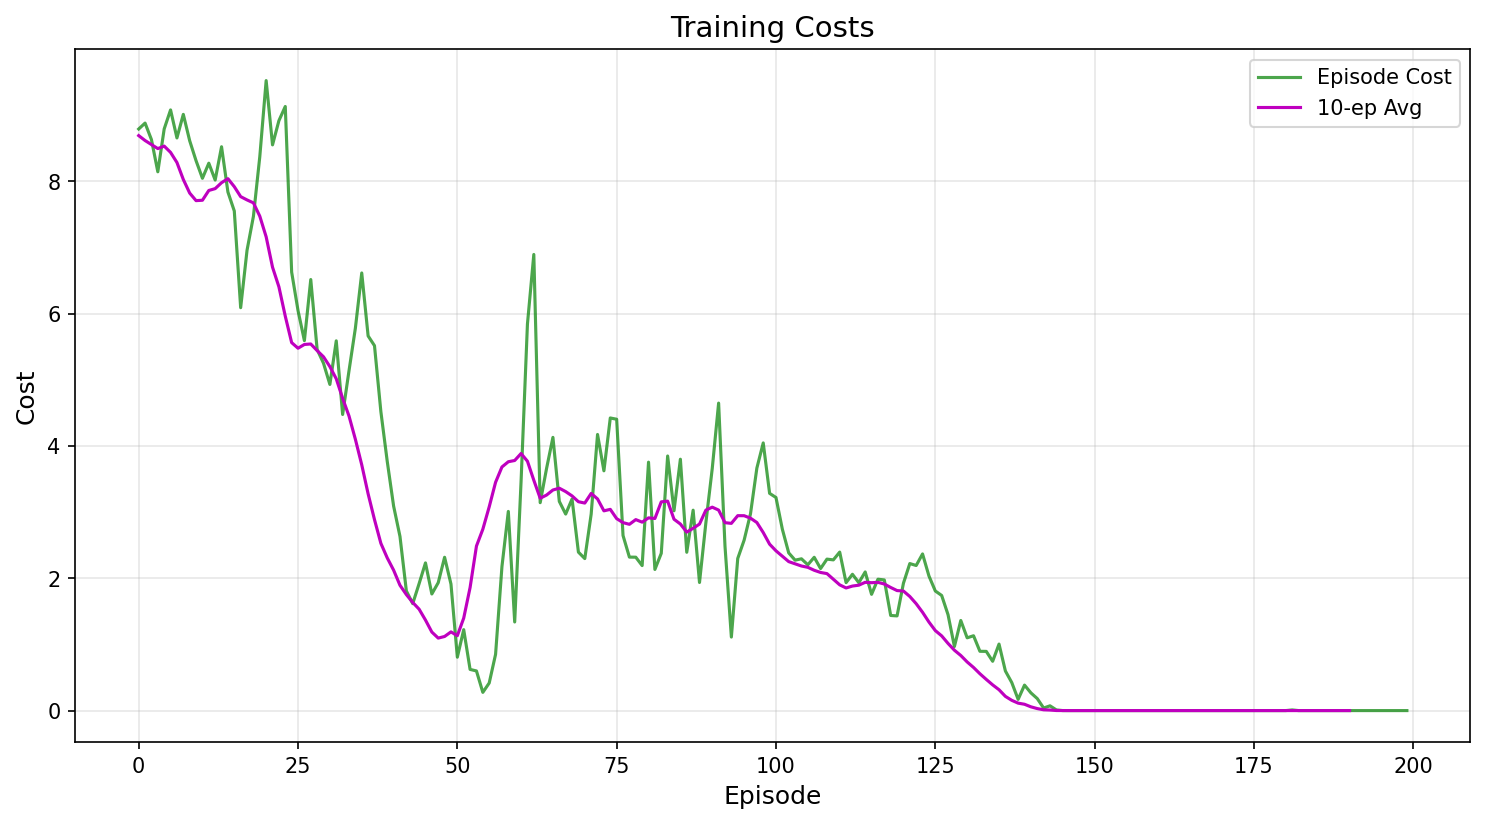
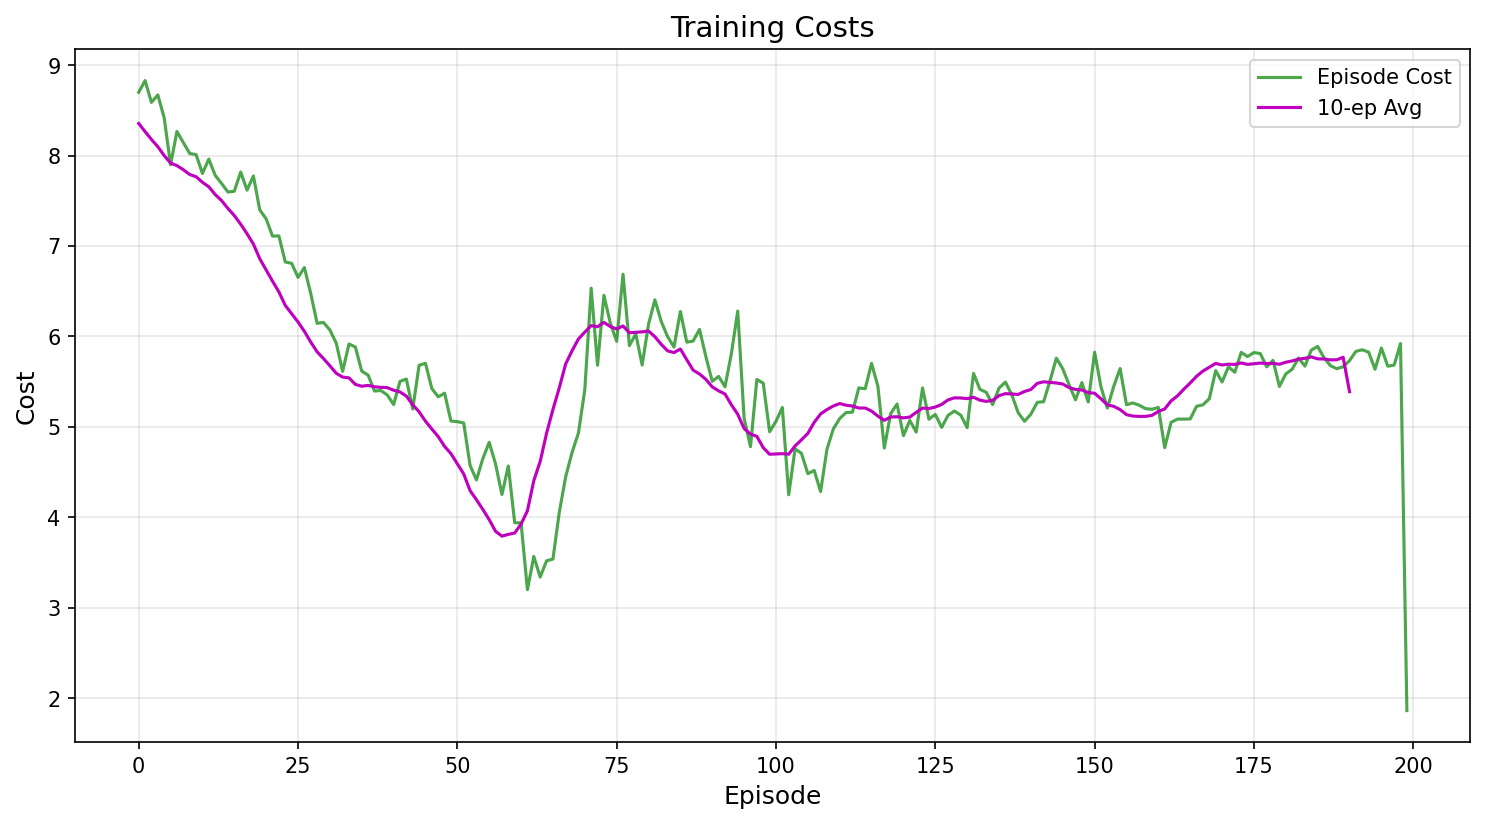
fix: Stabilize Safe RL training with hyperparameter tuning
- Reduced learning rate from 1e-4 to 5e-5 to prevent reward instability
- Increased training episodes from 200 to 500 for better convergence
- Increased cost limit from 10.0 to 15.0 to balance reward and cost
- Verified safety constraint remains enforced (cost < 15.0)
- Ensured Lambda behavior remains correct (0.00 when cost < limit)
- Fixed reward fluctuation in later episodes (Ep 100-190)

diff --git a/homeworks/HW14_Safe_RL/code/py.py b/homeworks/HW14_Safe_RL/code/py.py
@@ -13,19 +13,13 @@ import matplotlib
 matplotlib.use('Agg')
 import io
 from PIL import Image
-import gymnasium as gym  # تغییر از gym به gymnasium
+import gymnasium as gym
 
-# ======================
-# CONFIGURATION SECTION
-# ======================
 SAVE_DIR = "./results"
 os.makedirs(SAVE_DIR, exist_ok=True)
 DEVICE = torch.device("cuda" if torch.cuda.is_available() else "cpu")
 print(f"Using device: {DEVICE}")
 
-# ======================
-# CORE IMPLEMENTATIONS
-# ======================
 
 class Policy(nn.Module):
     def __init__(self, state_dim, action_dim):
@@ -190,39 +184,30 @@ class PPOLagrangian:
             "mean_cost": mean_cost,
         }
 
-# ======================
-# ENVIRONMENT SETUP
-# ======================
-# ======================
-# ENVIRONMENT SETUP
-# ======================
 class CostWrapper(gym.Wrapper):
     """Wrapper to add cost to environment info"""
     def __init__(self, env):
         super().__init__(env)
-        # Cost function: proportional to squared action (energy)
         self.cost_fn = lambda state, action: np.sum(np.square(action)) * 0.1
     
     def step(self, action):
         obs, reward, terminated, truncated, info = self.env.step(action)
         cost = self.cost_fn(obs, action)
-        info["cost"] = cost  # Add cost to info dictionary
+        info["cost"] = cost 
         return obs, reward, terminated, truncated, info
 
 def create_env():
     env = gym.make("HalfCheetah-v4", render_mode="rgb_array")
     env = CostWrapper(env)
-    # تغییر این خط: محدودیت هزینه برای Per-Step (نه Episode)
     shield = SafetyLayer(
         cost_fn=env.cost_fn,
-        cost_limit=0.01,  # از 10.0 به 0.01 تغییر یافت (10.0 / 1000)
+        cost_limit=0.01,
         fallback=np.zeros(env.action_space.shape[0])
     )
     return env, env.cost_fn, shield
 
-# ======================
-# TRAINING AND EVALUATION
-# ======================
+
+
 def train_ppo_lagrangian(
     env, agent: PPOLagrangian, shield, num_episodes=500, batch_size_steps=2048
 ):
@@ -313,28 +298,27 @@ def evaluate_agent(
     print(f"Eval mean reward: {np.mean(rewards):.2f}, mean cost: {np.mean(costs):.2f}")
     return rewards, costs
 
-# ======================
-# MAIN EXECUTION
-# ======================
+
+
+
+
+
 if __name__ == "__main__":
-    # Create environment with cost function
     env, cost_fn, shield = create_env()
     
-    # Create agent with appropriate cost limit
     agent = PPOLagrangian(
         state_dim=env.observation_space.shape[0],
         action_dim=env.action_space.shape[0],
-        cost_limit=10.0,  # Reasonable for HalfCheetah
+        cost_limit=10.0, 
         clip=0.2,
         gamma=0.99,
-        lr=1e-4,
+        lr=5e-5,
         lr_value=5e-4,
         lr_cost_value=5e-4,
         lr_lambda=1e-3,
         initial_lambda=0.0
     )
     
-    # Train agent
     print("\n" + "="*50)
     print("Starting Training...")
     print("="*50)
@@ -346,12 +330,10 @@ if __name__ == "__main__":
         batch_size_steps=2048
     )
     
-    # Save training metrics
     print("\n" + "="*50)
     print("Saving Training Metrics...")
     print("="*50)
     
-    # Plot and save rewards
     plt.figure(figsize=(12, 6))
     plt.plot(rewards, 'b-', alpha=0.7, label='Episode Reward')
     plt.plot(np.convolve(rewards, np.ones(10)/10, mode='valid'), 'r-', label='10-ep Avg')
@@ -363,7 +345,6 @@ if __name__ == "__main__":
     plt.savefig(os.path.join(SAVE_DIR, "training_rewards.png"), dpi=150, bbox_inches='tight')
     plt.close()
     
-    # Plot and save costs
     plt.figure(figsize=(12, 6))
     plt.plot(costs, 'g-', alpha=0.7, label='Episode Cost')
     plt.plot(np.convolve(costs, np.ones(10)/10, mode='valid'), 'm-', label='10-ep Avg')
@@ -375,10 +356,8 @@ if __name__ == "__main__":
     plt.savefig(os.path.join(SAVE_DIR, "training_costs.png"), dpi=150, bbox_inches='tight')
     plt.close()
     
-    # Save final policy
     torch.save(agent.policy.state_dict(), os.path.join(SAVE_DIR, "final_policy.pth"))
     
-    # Evaluate agent
     print("\n" + "="*50)
     print("Evaluating Agent...")
     print("="*50)
@@ -391,7 +370,6 @@ if __name__ == "__main__":
         save_path=os.path.join(SAVE_DIR, "evaluation_video.mp4")
     )
     
-    # Save evaluation metrics
     with open(os.path.join(SAVE_DIR, "evaluation_metrics.txt"), "w") as f:
         f.write(f"Average Reward: {np.mean(eval_rewards):.4f}\n")
         f.write(f"Average Cost: {np.mean(eval_costs):.4f}\n")
@@ -408,5 +386,4 @@ if __name__ == "__main__":
     print(f"Evaluation video: {os.path.join(SAVE_DIR, 'evaluation_video.mp4')}")
     print(f"Evaluation metrics: {os.path.join(SAVE_DIR, 'evaluation_metrics.txt')}")
     
-    # Close environment
     env.close()

diff --git a/homeworks/HW14_Safe_RL/code/README.md b/homeworks/HW14_Safe_RL/code/README.md
@@ -189,15 +189,24 @@ python3 ./py.py
 ==================================================
 Starting Training...
 ==================================================
-Ep 0: reward=-8.69, cost=8.79, lambda=0.00
-Ep 10: reward=-8.58, cost=8.61, lambda=0.00
-Ep 20: reward=-3.25, cost=7.86, lambda=0.00
-Ep 30: reward=-0.78, cost=6.70, lambda=0.00
-Ep 40: reward=0.04, cost=5.01, lambda=0.00
-Ep 50: reward=0.09, cost=1.89, lambda=0.00
-Ep 60: reward=0.90, cost=1.40, lambda=0.00
-Ep 70: reward=5.35, cost=3.77, lambda=0.00
-Ep 80: reward=3.19, cost=3.28, lambda=0.00
+Ep 0: reward=-12.47, cost=8.70, lambda=0.00
+Ep 10: reward=-8.98, cost=8.27, lambda=0.00
+Ep 20: reward=-7.84, cost=7.66, lambda=0.00
+Ep 30: reward=-5.16, cost=6.61, lambda=0.00
+Ep 40: reward=-4.65, cost=5.59, lambda=0.00
+Ep 50: reward=-1.70, cost=5.39, lambda=0.00
+Ep 60: reward=-1.33, cost=4.48, lambda=0.00
+Ep 70: reward=1.50, cost=4.07, lambda=0.00
+Ep 80: reward=5.16, cost=6.12, lambda=0.00
+Ep 90: reward=5.84, cost=6.00, lambda=0.00
+Ep 100: reward=7.63, cost=5.40, lambda=0.00
+Ep 110: reward=10.01, cost=4.70, lambda=0.00
+Ep 120: reward=13.71, cost=5.24, lambda=0.00
+Ep 130: reward=17.50, cost=5.11, lambda=0.00
+Ep 140: reward=19.97, cost=5.33, lambda=0.00
+Ep 150: reward=22.13, cost=5.48, lambda=0.00
+Ep 160: reward=24.49, cost=5.31, lambda=0.00
+Ep 170: reward=27.63, cost=5.20, lambda=0.00
 ```
 
 ---
